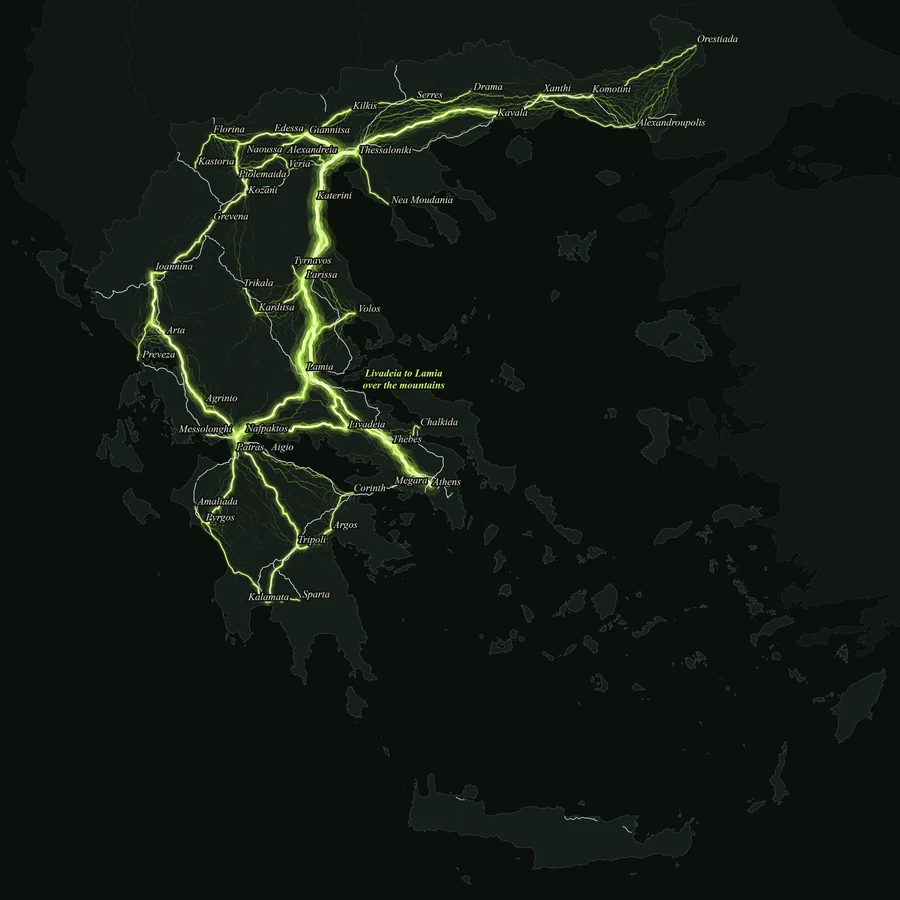
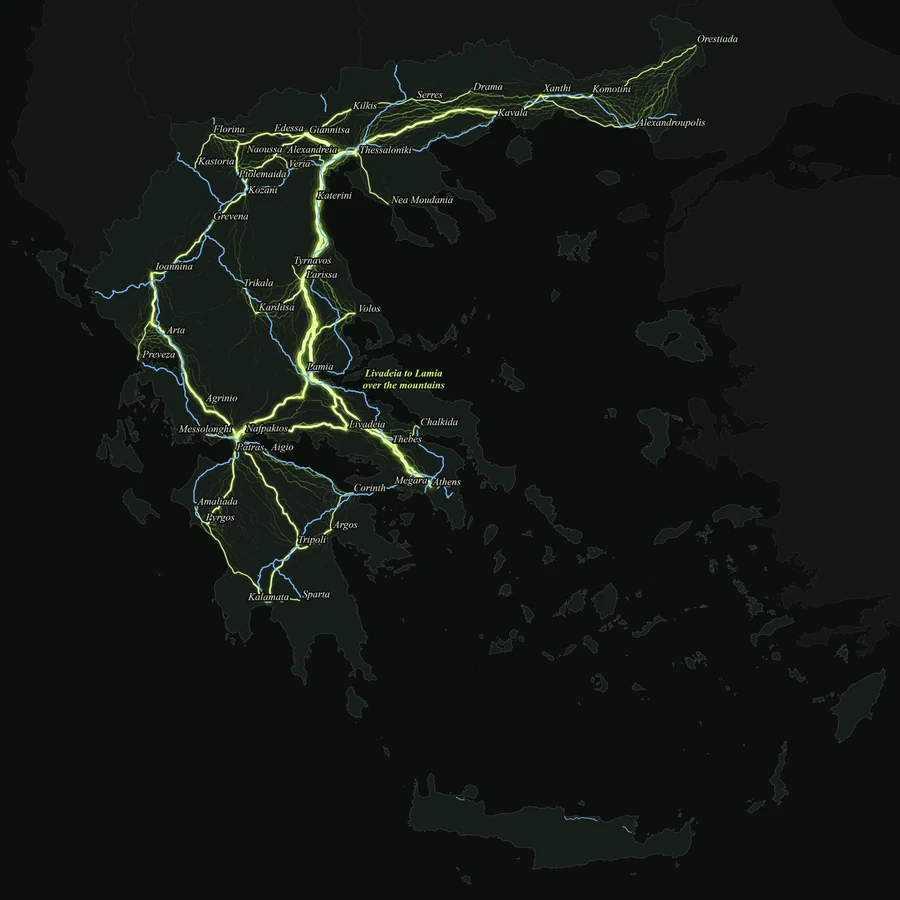
Day 24: clearer map and calmer timelapse (motorways in solid blue, softer glow, a note on how to read it, slower playback)

diff --git a/src/content/projects/30dmc-2026-day-24-network.md b/src/content/projects/30dmc-2026-day-24-network.md
@@ -8,7 +8,7 @@ context: '#30DayMapChallenge 2026 · Day 24'
 tags: ['ArcGIS Pro', 'Python', 'Network analysis', 'Simulation', 'OpenStreetMap']
 image: '/images/30dmc-2026-day-24-wide.webp'
 imageFull: '/images/30dmc-2026-day-24-full.webp'
-imageAlt: 'Printed A4 sheet titled If Slime Mold Built Greece''s Motorways: mainland Greece in near-black like a petri dish, glowing yellow-green slime mold tubes joining amber dots for 47 cities, with a faint web of abandoned veins around them and the real motorways as thin pale dashes; the side panel holds a legend, four small maps of the mold growing, a scorecard against the motorways and a chart of length against fault tolerance'
+imageAlt: 'Printed A4 sheet titled If Slime Mold Built Greece''s Motorways: mainland Greece in near-black like a petri dish, glowing yellow-green slime mold tubes joining amber dots for 47 cities, with a faint web of abandoned veins around them and the real motorways as thin blue lines, with a note on how to read it; the side panel holds a legend, four small maps of the mold growing, a scorecard against the motorways and a chart of length against fault tolerance'
 thumbnail: '/images/30dmc-2026-day-24-square.webp'
 thumbnailAlt: 'Glowing yellow-green slime mold network joining the cities of mainland Greece on a dark background'
 dataSource:
@@ -33,7 +33,7 @@ downloads:
     note: 'JPEG · 4724 × 4724 · 1.2 MB'
 map: '/data/30dmc-2026-day-24-slime.json'
 mapComponent: 'slime-timelapse'
-mapCaption: 'The slime mold model growing over 3,000 steps. Every tube starts the same; the ones that carry flow between the cities thicken and glow, the rest fade. Tick Motorways to compare it with the real network.'
+mapCaption: 'The slime mold model growing over 3,000 steps. Every tube starts the same; the ones that carry flow between the cities thicken and glow, the rest fade. The real motorways are drawn in blue; untick them to see the mold alone.'
 draft: true
 ---
 
